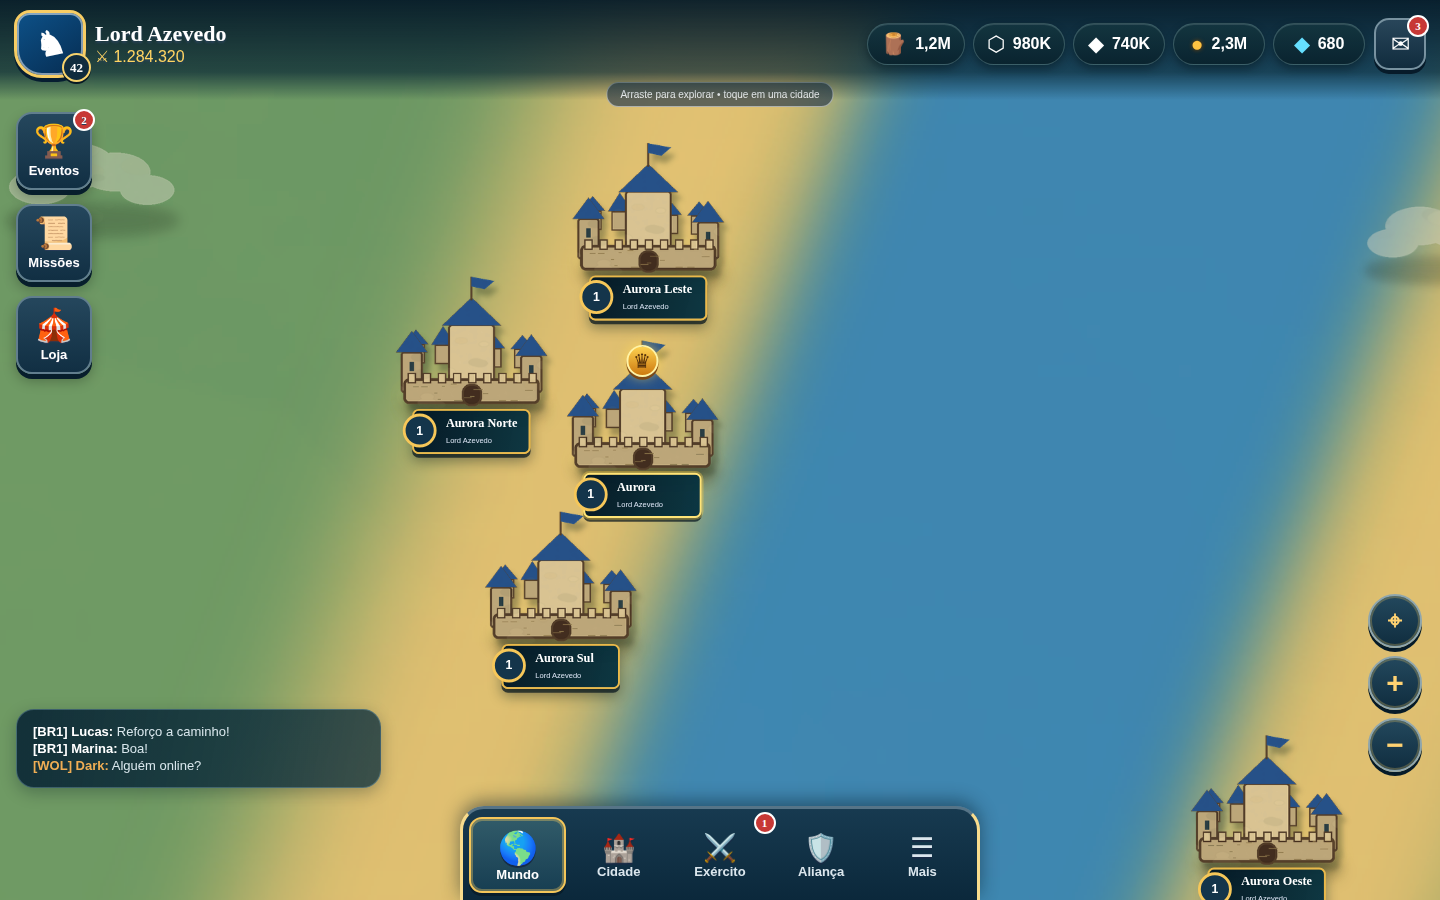
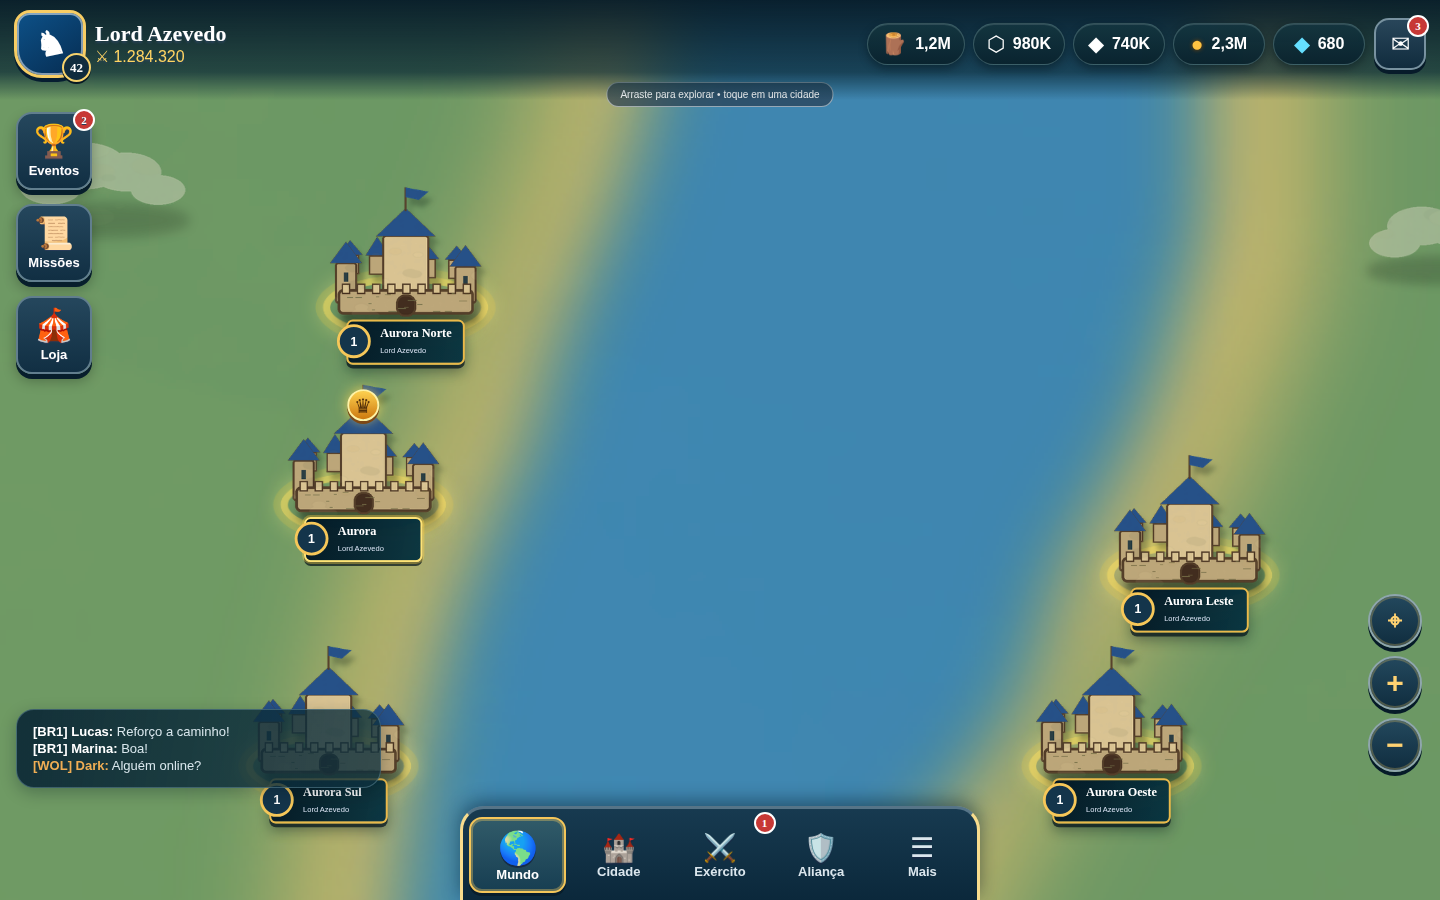
Gera biomas naturais com ruido coerente

diff --git a/map-definition.js b/map-definition.js
@@ -4,7 +4,8 @@
   if (typeof module === 'object' && module.exports) module.exports = api;
   if (root) root.WarlordMapDefinition = api;
 })(typeof globalThis !== 'undefined' ? globalThis : this, function createMapDefinitionApi(MapAssets) {
-  const DEFAULT_MAP_SEED = 20260924;
+  const MAP_SEED = 20260925;
+  const DEFAULT_MAP_SEED = MAP_SEED;
   const TILE = Object.freeze({ width: 480, height: 240, horizontalStep: 450, verticalStep: 112 });
   const LAYERS = Object.freeze({ terrain: 0, waterAndRoads: 1_000, lakes: 2_000, scenery: 3_000, cities: 10_000, armies: 20_000, effects: 30_000 });
   const BUILDABLE_TERRAINS = Object.freeze(['grass', 'sand', 'snow']);
@@ -21,16 +22,62 @@
     };
   }
 
-  function terrainBiomeAt(x, y, width, height) {
+  function noiseHash(x, y, seed = MAP_SEED) {
+    let value = Math.imul(x, 374761393) + Math.imul(y, 668265263) + Math.imul(seed, 982451653);
+    value = Math.imul(value ^ (value >>> 13), 1274126177);
+    return ((value ^ (value >>> 16)) >>> 0) / 4294967295;
+  }
+
+  function coherentNoise(x, y, seed = MAP_SEED) {
+    const left = Math.floor(x);
+    const top = Math.floor(y);
+    const smoothX = (x - left) ** 2 * (3 - (2 * (x - left)));
+    const smoothY = (y - top) ** 2 * (3 - (2 * (y - top)));
+    const north = noiseHash(left, top, seed) + ((noiseHash(left + 1, top, seed) - noiseHash(left, top, seed)) * smoothX);
+    const south = noiseHash(left, top + 1, seed) + ((noiseHash(left + 1, top + 1, seed) - noiseHash(left, top + 1, seed)) * smoothX);
+    return north + ((south - north) * smoothY);
+  }
+
+  function fractalNoise(x, y, seed = MAP_SEED) {
+    let value = 0;
+    let amplitude = 0.58;
+    let totalAmplitude = 0;
+    for (let octave = 0; octave < 4; octave += 1) {
+      value += coherentNoise(x, y, seed + (octave * 1013)) * amplitude;
+      totalAmplitude += amplitude;
+      x *= 2;
+      y *= 2;
+      amplitude *= 0.5;
+    }
+    return value / totalAmplitude;
+  }
+
+  function biomeSampleAt(x, y, width, height, seed = MAP_SEED) {
     const normalizedX = x / width;
     const normalizedY = y / height;
-    const riverCenter = 0.54 + (Math.sin(normalizedY * Math.PI * 2) * 0.055);
+    const terrainNoise = fractalNoise(normalizedX * 4.2, normalizedY * 4.2, seed);
+    const climateNoise = fractalNoise((normalizedX * 3.1) + 17, (normalizedY * 3.1) - 9, seed + 71);
+    const riverCenter = 0.54 + (Math.sin((normalizedY * Math.PI * 2) + (terrainNoise * 1.8)) * 0.055);
     const riverDistance = Math.abs(normalizedX - riverCenter);
     const lakeDistance = Math.hypot(normalizedX - 0.27, normalizedY - 0.7);
-    if (riverDistance < 0.04 || lakeDistance < 0.08) return 'water';
-    if (riverDistance < 0.085 || lakeDistance < 0.13) return 'sand';
-    if (normalizedX > 0.64 && normalizedY < 0.48) return 'snow';
+    const riverDepression = Math.max(0, 1 - (riverDistance / 0.075)) * 0.48;
+    const lakeDepression = Math.max(0, 1 - (lakeDistance / 0.14)) * 0.5;
+    const elevation = 0.54 + ((terrainNoise - 0.5) * 0.34) - Math.max(riverDepression, lakeDepression);
+    const temperature = 0.84 - (normalizedX * 0.64) - (normalizedY * 0.05) + ((climateNoise - 0.5) * 0.16);
+    const shore = elevation < 0.34;
+    const moisture = shore ? 0.18 : 0.38 + (climateNoise * 0.42);
+    return Object.freeze({ elevation, moisture, temperature });
+  }
+
+  function selectBiome(sample) {
+    if (sample.elevation < 0.25) return 'water';
+    if (sample.temperature < 0.3) return 'snow';
+    if (sample.moisture < 0.25) return 'sand';
     return 'grass';
+  }
+
+  function terrainBiomeAt(x, y, width, height, seed = MAP_SEED) {
+    return selectBiome(biomeSampleAt(x, y, width, height, seed));
   }
 
   function createLogicalCells(width, height) {
@@ -45,7 +92,26 @@
         cells.push(Object.freeze({ row, column, biome, movementCost: MOVEMENT_COST[biome], blocked: biome === 'water' }));
       }
     }
-    return Object.freeze(cells);
+    let smoothed = cells;
+    for (let pass = 0; pass < 2; pass += 1) {
+      const byCoordinate = new Map(smoothed.map((cell) => [`${cell.row}:${cell.column}`, cell]));
+      smoothed = smoothed.map((cell) => {
+        const neighbors = [];
+        for (let rowOffset = -1; rowOffset <= 1; rowOffset += 1) {
+          for (let columnOffset = -1; columnOffset <= 1; columnOffset += 1) {
+            if (rowOffset === 0 && columnOffset === 0) continue;
+            const neighbor = byCoordinate.get(`${cell.row + rowOffset}:${cell.column + columnOffset}`);
+            if (neighbor) neighbors.push(neighbor);
+          }
+        }
+        const counts = neighbors.reduce((result, neighbor) => ({ ...result, [neighbor.biome]: (result[neighbor.biome] || 0) + 1 }), {});
+        const [majority, count] = Object.entries(counts).sort((first, second) => second[1] - first[1])[0] || [cell.biome, 0];
+        const isolated = !neighbors.some((neighbor) => neighbor.biome === cell.biome);
+        const biome = count >= 5 || isolated ? majority : cell.biome;
+        return Object.freeze({ ...cell, biome, movementCost: MOVEMENT_COST[biome], blocked: biome === 'water' });
+      });
+    }
+    return Object.freeze(smoothed);
   }
 
   function rectanglesOverlap(first, second, padding = 0) {
@@ -171,5 +237,5 @@
     return { width, height, seed, logicalCells, objects: scenery };
   }
 
-  return Object.freeze({ DEFAULT_MAP_SEED, TILE, LAYERS, BUILDABLE_TERRAINS, LOGICAL_CELL_SIZE, MOVEMENT_COST, seededRandom, terrainBiomeAt, rectanglesOverlap, isBuildableCityPosition, placeCitiesOnBuildableTerrain, createLogicalCells, createSceneryObjects, createMapDefinition });
+  return Object.freeze({ MAP_SEED, DEFAULT_MAP_SEED, TILE, LAYERS, BUILDABLE_TERRAINS, LOGICAL_CELL_SIZE, MOVEMENT_COST, seededRandom, coherentNoise, fractalNoise, biomeSampleAt, selectBiome, terrainBiomeAt, rectanglesOverlap, isBuildableCityPosition, placeCitiesOnBuildableTerrain, createLogicalCells, createSceneryObjects, createMapDefinition });
 });

diff --git a/tests/map-definition.test.js b/tests/map-definition.test.js
@@ -1,6 +1,16 @@
 const test = require('node:test');
 const assert = require('node:assert/strict');
-const { BUILDABLE_TERRAINS, DEFAULT_MAP_SEED, LAYERS, MOVEMENT_COST, createMapDefinition, isBuildableCityPosition, placeCitiesOnBuildableTerrain, rectanglesOverlap, terrainBiomeAt } = require('../map-definition.js');
+const { BUILDABLE_TERRAINS, DEFAULT_MAP_SEED, LAYERS, MAP_SEED, MOVEMENT_COST, biomeSampleAt, createMapDefinition, isBuildableCityPosition, placeCitiesOnBuildableTerrain, rectanglesOverlap, selectBiome, terrainBiomeAt } = require('../map-definition.js');
+
+test('gera biomas por ruído coerente com a seed fixa', () => {
+  assert.equal(MAP_SEED, 20260925);
+  assert.equal(DEFAULT_MAP_SEED, MAP_SEED);
+  assert.deepEqual(biomeSampleAt(320, 640, 2_460, 2_220), biomeSampleAt(320, 640, 2_460, 2_220));
+  assert.equal(selectBiome({ elevation: 0.2, moisture: 0.8, temperature: 0.8 }), 'water');
+  assert.equal(selectBiome({ elevation: 0.8, moisture: 0.8, temperature: 0.2 }), 'snow');
+  assert.equal(selectBiome({ elevation: 0.8, moisture: 0.2, temperature: 0.8 }), 'sand');
+  assert.equal(selectBiome({ elevation: 0.8, moisture: 0.8, temperature: 0.8 }), 'grass');
+});
 
 test('a seed fixa produz a mesma definição e outra seed altera a composição', () => {
   const input = { width: 2_460, height: 2_220, cities: [] };
@@ -18,6 +28,16 @@ test('mantém a grade lógica fora da lista de objetos visuais', () => {
   map.logicalCells.forEach((cell) => {
     assert.equal(cell.movementCost, MOVEMENT_COST[cell.biome]);
     assert.equal(cell.blocked, cell.biome === 'water');
+  });
+  const cells = new Map(map.logicalCells.map((cell) => [`${cell.row}:${cell.column}`, cell]));
+  map.logicalCells.forEach((cell) => {
+    const neighbors = [];
+    for (let rowOffset = -1; rowOffset <= 1; rowOffset += 1) {
+      for (let columnOffset = -1; columnOffset <= 1; columnOffset += 1) {
+        if (rowOffset || columnOffset) neighbors.push(cells.get(`${cell.row + rowOffset}:${cell.column + columnOffset}`));
+      }
+    }
+    assert.equal(neighbors.filter(Boolean).some((neighbor) => neighbor.biome === cell.biome), true);
   });
 });
 
